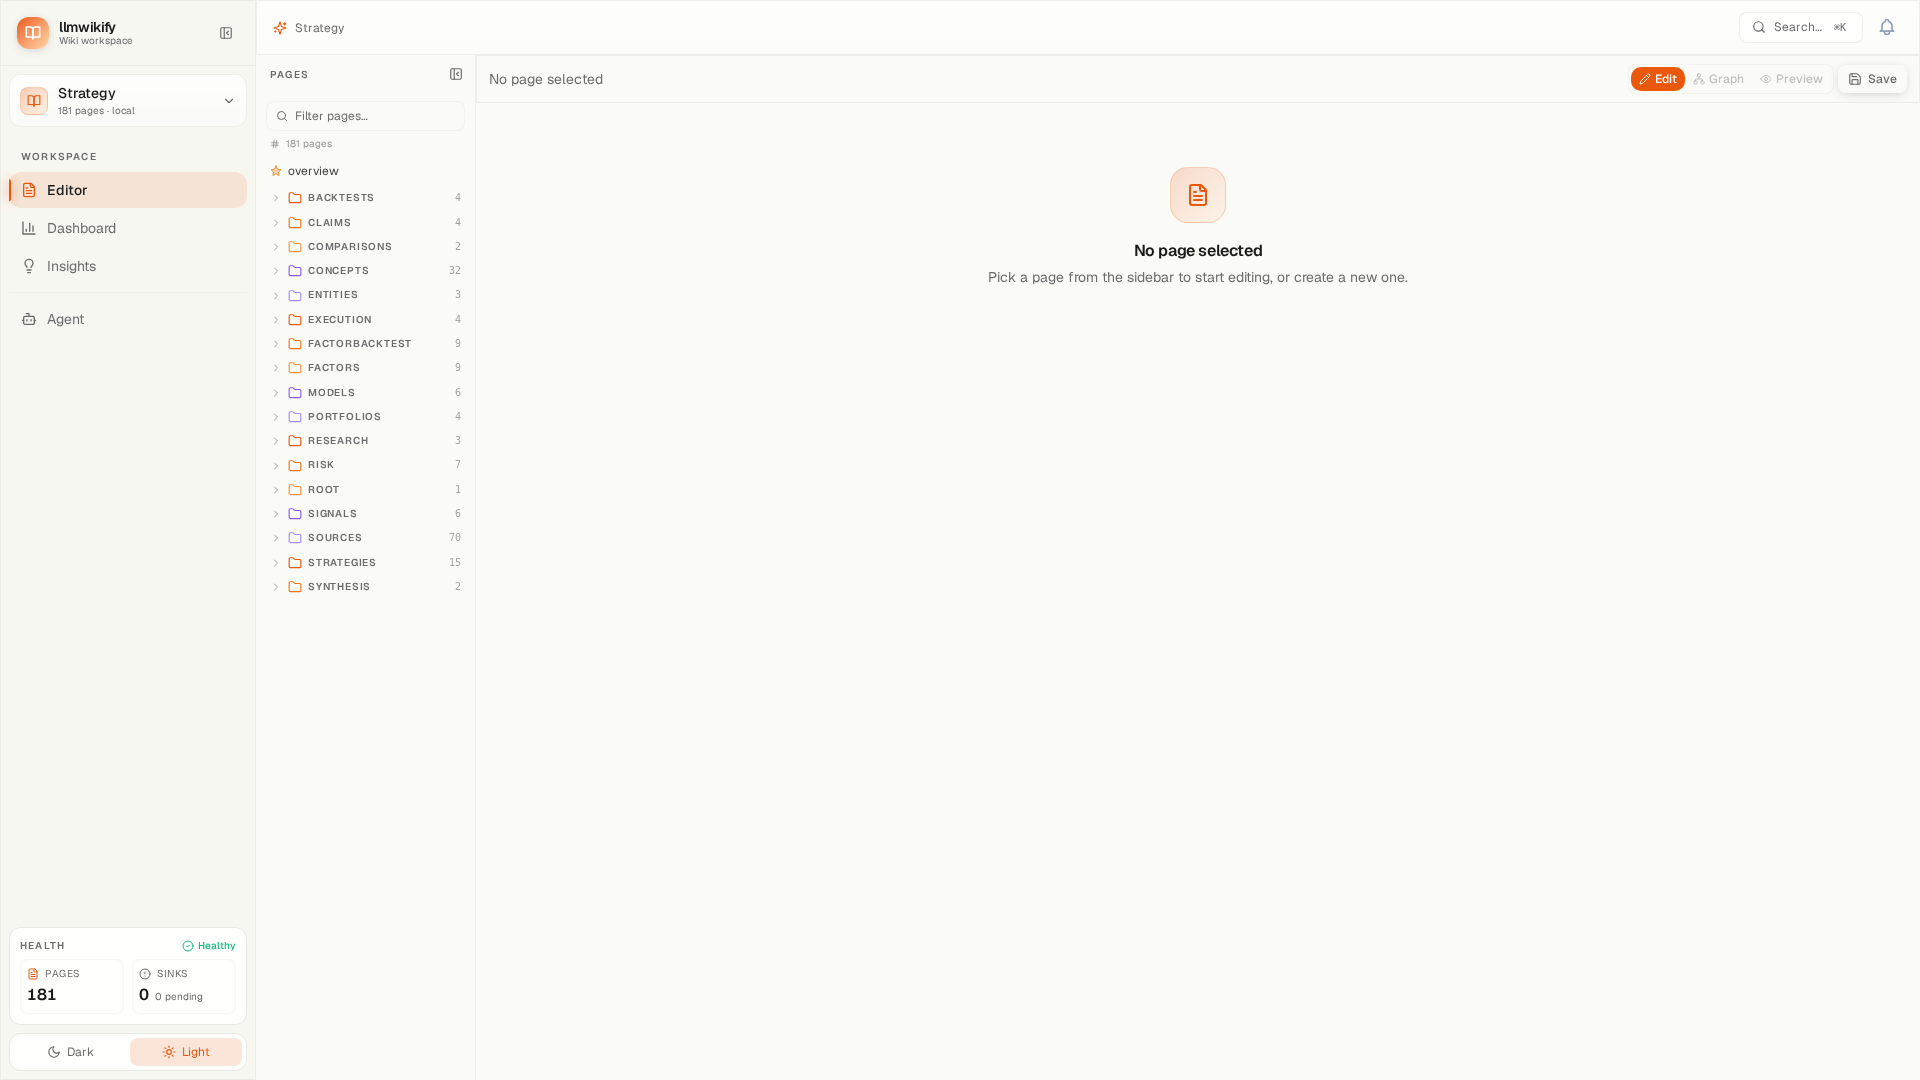
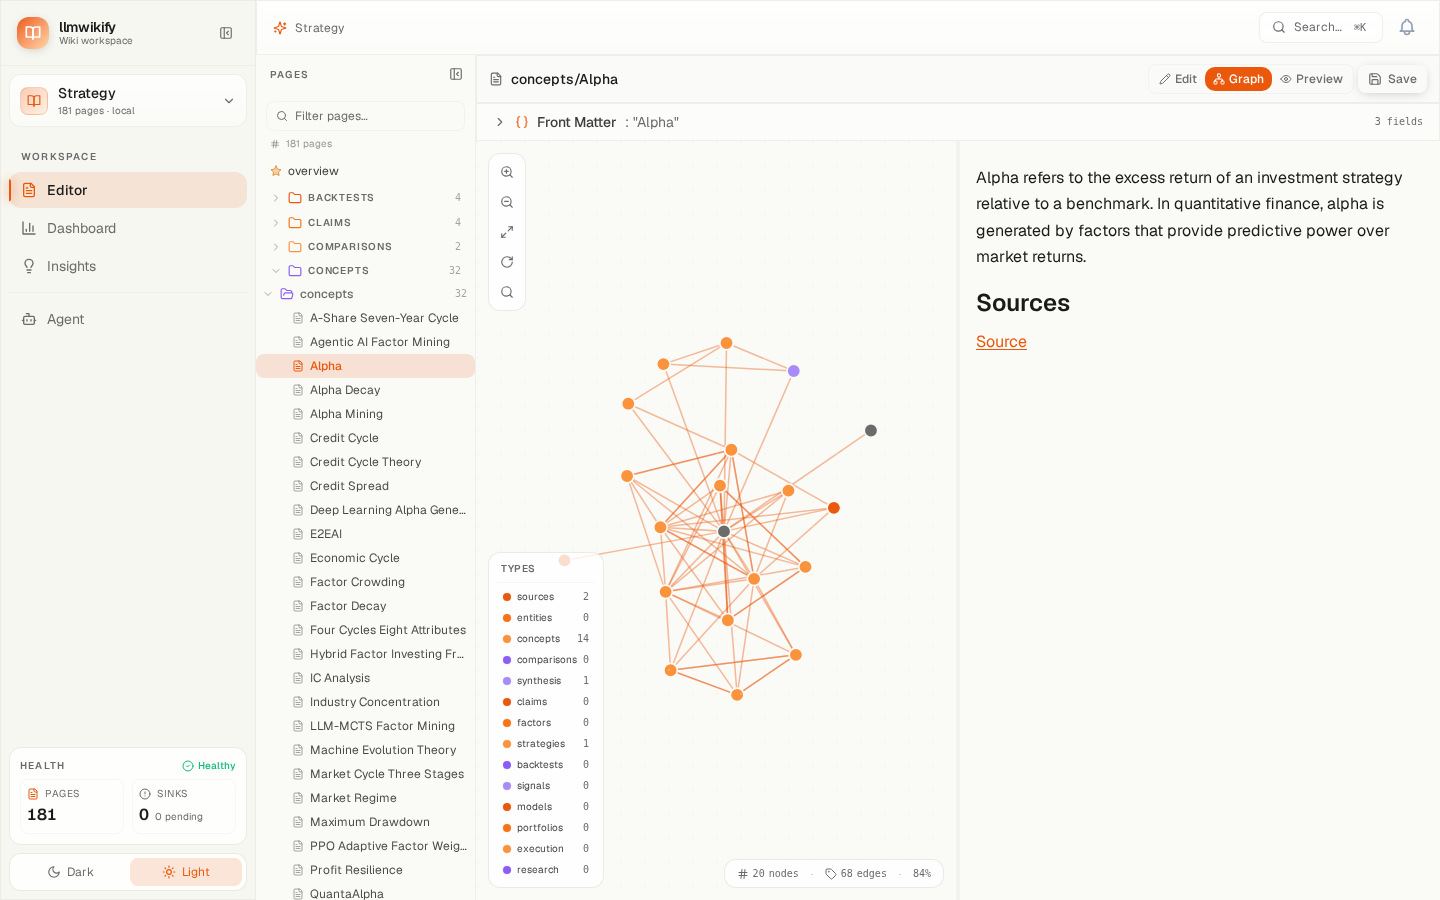
docs: update README screenshots and mark Chat as under development
- Hero image: dashboard.png (wiki overview with metrics)
- Editor: new screenshot showing Alpha page with split-pane editor
- Graph: new screenshot showing D3.js force-directed graph
- Chat + ReAct Agent: marked as 'Under Active Development'
- Removed Quant sections (Factor Detail, Backtest Platform) for now

diff --git a/README.md b/README.md
@@ -11,7 +11,7 @@
 **llmwikify** is a Python CLI + library + unified server for building **persistent,
 LLM-maintained knowledge bases** with a dedicated **quant research reproduction pipeline**.
 
-![Chat Demo](docs/screenshots/chat.png)
+![Dashboard](docs/screenshots/dashboard.png)
 
 > ⚠️ **Beta Release** — APIs may shift between minor versions. Report issues on
 > [GitHub](https://github.com/sn0wfree/llmwikify/issues).
@@ -33,8 +33,10 @@ LLM-maintained knowledge bases** with a dedicated **quant research reproduction 
 
 ## Features
 
-### Chat + ReAct Agent
+### Chat + ReAct Agent ⚠️ Under Active Development
 Streaming chat with tool calling, confirmations, and 26 MCP tools. The agent can search your wiki, analyze sources, and generate insights — all with human-in-the-loop confirmations.
+
+> ⚠️ **Note:** This feature is under active development and may be unstable.
 
 ![Chat](docs/screenshots/chat.png)
 
@@ -52,16 +54,6 @@ Interactive D3.js force-directed graph with PageRank node sizing, community colo
 Track your knowledge growth with metrics cards, Wiki Dream activity timeline, and health indicators. See how your wiki evolves over time.
 
 ![Dashboard](docs/screenshots/dashboard.png)
-
-### Quant: Factor Detail
-6-layer factor view with IC charts, quantile curves, risk radar, and hypothesis lists. Deep dive into any factor's performance and characteristics.
-
-![Factor](docs/screenshots/factor.png)
-
-### Quant: Backtest Platform
-Run single-factor and strategy backtests with IC heatmaps, group return bars, equity curves, and comprehensive KPI metrics.
-
-![Backtest](docs/screenshots/backtest.png)
 
 ---
 